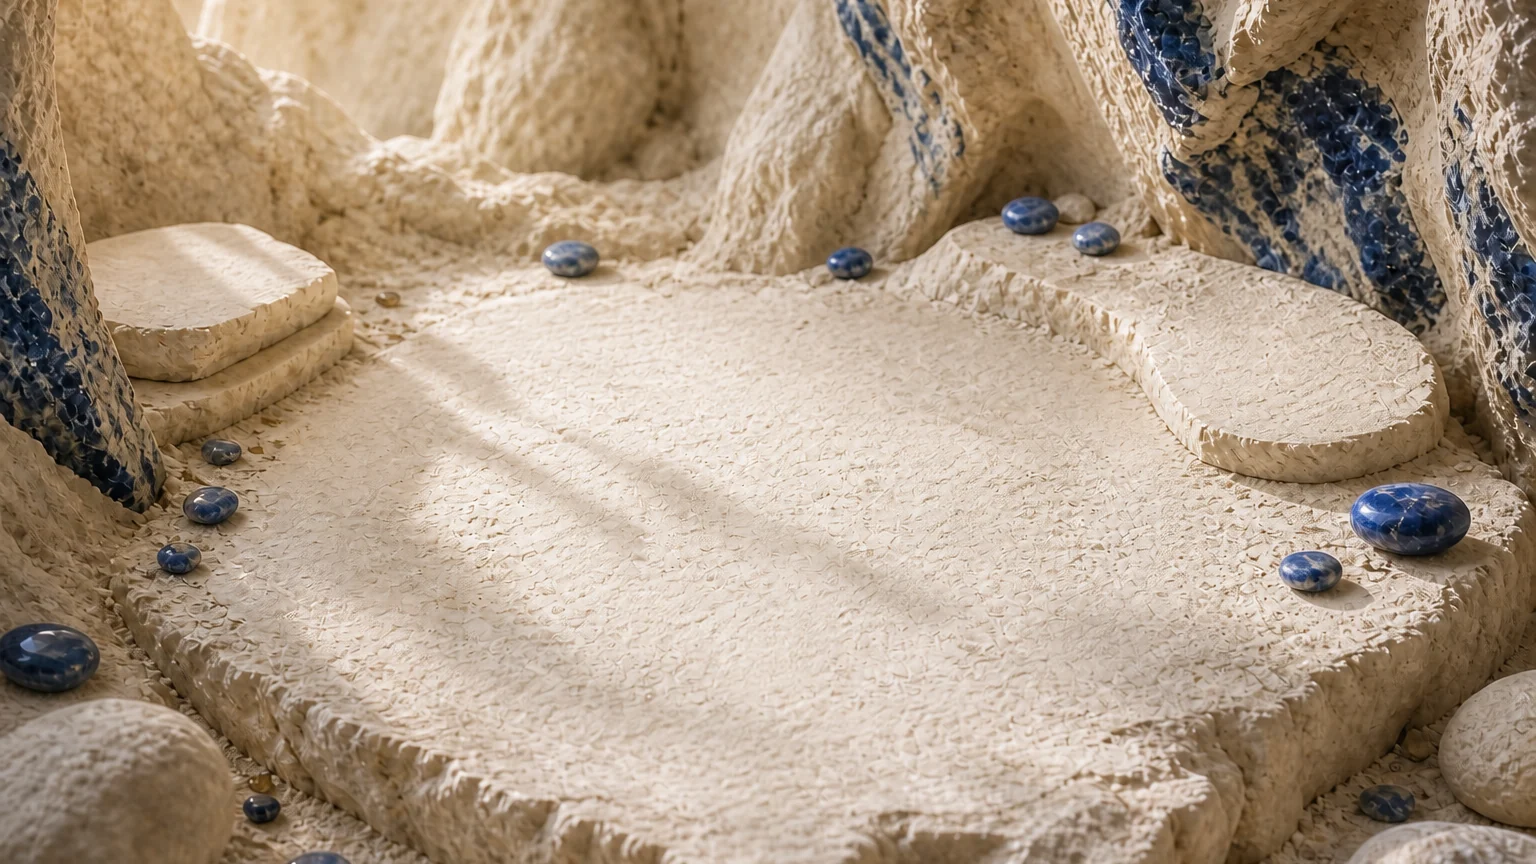
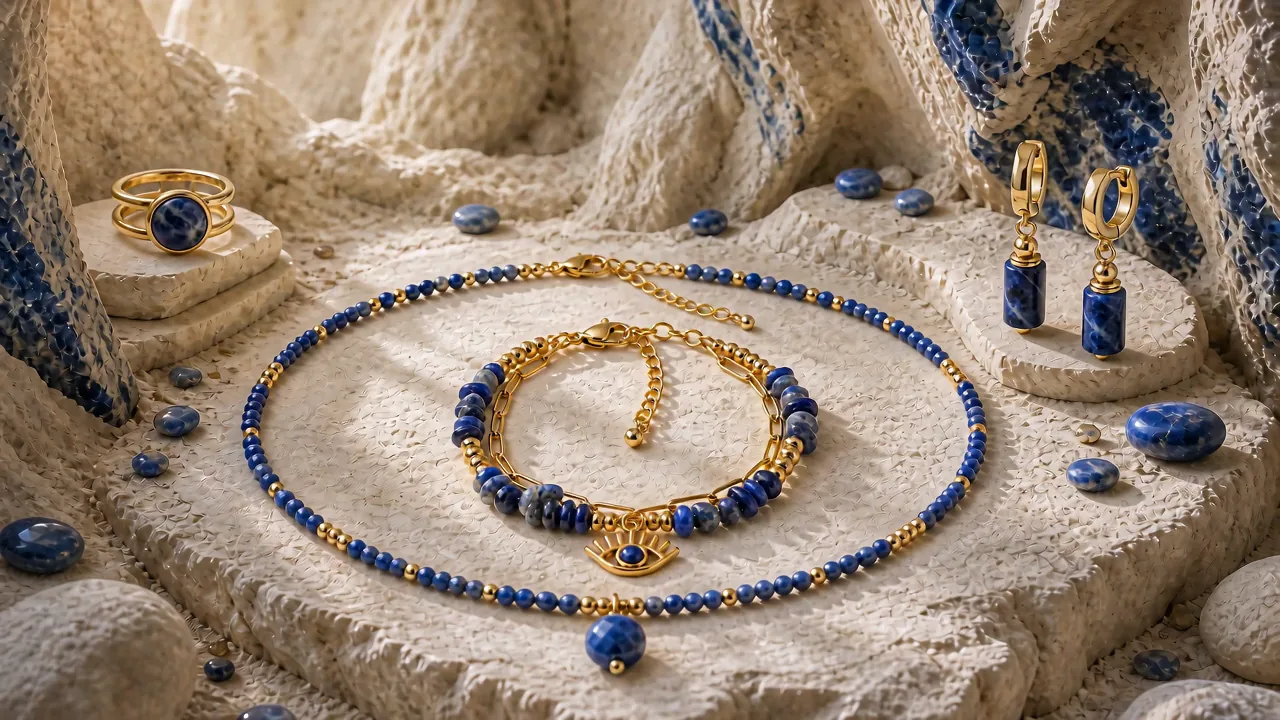
fix: harden home video fallback

diff --git a/assets/milaura-home-seasonal-media.js b/assets/milaura-home-seasonal-media.js
@@ -19,6 +19,8 @@
       let inView = false;
       let hasStarted = false;
       let hasCompleted = false;
+      let hasVisiblePlayback = false;
+      let switchingVariant = false;
 
       const currentVariant = () => (mobileViewport.matches ? 'Mobile' : 'Desktop');
       const currentMediaUrl = (kind) => {
@@ -30,7 +32,7 @@
         replay.hidden = !visible;
         replay.style.display = visible ? 'inline-flex' : 'none';
         if (!visible) {
-          media.dataset.mediaState = hasStarted ? 'playing' : 'idle';
+          media.dataset.mediaState = hasVisiblePlayback ? 'playing' : 'fallback';
           return;
         }
 
@@ -69,8 +71,10 @@
         video.defaultMuted = true;
         hasStarted = true;
         setReplayVisibility(false);
+        if (!hasVisiblePlayback) media.dataset.mediaState = 'loading';
         const playbackStartTime = video.currentTime;
         video.play().catch(() => {
+          hasVisiblePlayback = false;
           setReplayVisibility(true, 'blocked');
         });
         window.setTimeout(() => {
@@ -79,6 +83,7 @@
             !hasCompleted &&
             video.currentTime <= playbackStartTime + 0.05
           ) {
+            hasVisiblePlayback = false;
             setReplayVisibility(true, 'blocked');
           }
         }, 1200);
@@ -92,16 +97,21 @@
 
         if (!sourceLoaded || !nextSource || nextSource === activeSource) return;
 
+        switchingVariant = true;
         video.pause();
         activeSource = nextSource;
         video.src = nextSource;
+        hasVisiblePlayback = false;
+        setReplayVisibility(false);
         video.load();
 
         video.addEventListener(
           'loadedmetadata',
           () => {
+            switchingVariant = false;
             if (hasCompleted) {
               video.currentTime = Math.max(0, video.duration - 0.04);
+              hasVisiblePlayback = true;
               setReplayVisibility(true);
               return;
             }
@@ -131,25 +141,27 @@
         if (!loadSource()) return;
         hasCompleted = false;
         hasStarted = true;
+        hasVisiblePlayback = false;
         video.currentTime = 0;
         playCurrent(true);
       });
 
       video.addEventListener('play', () => {
         hasStarted = true;
-        setReplayVisibility(false);
       });
 
       video.addEventListener('timeupdate', () => {
-        if (!video.paused && !hasCompleted && media.dataset.mediaState === 'blocked') {
+        if (!video.paused && !hasCompleted && video.currentTime > 0.05) {
+          hasVisiblePlayback = true;
           setReplayVisibility(false);
         }
       });
 
       video.addEventListener('pause', () => {
-        if (!inView || !hasStarted || hasCompleted) return;
+        if (!inView || !hasStarted || hasCompleted || switchingVariant) return;
         window.setTimeout(() => {
           if (inView && video.paused && !video.ended && !hasCompleted) {
+            hasVisiblePlayback = false;
             setReplayVisibility(true, 'blocked');
           }
         }, 120);
@@ -157,18 +169,32 @@
 
       video.addEventListener('ended', () => {
         hasCompleted = true;
+        hasVisiblePlayback = true;
         setReplayVisibility(true, 'replay');
       });
 
       video.addEventListener('error', () => {
-        if (!hasCompleted) setReplayVisibility(true, 'blocked');
+        if (!hasCompleted) {
+          hasVisiblePlayback = false;
+          setReplayVisibility(true, 'blocked');
+        }
+      });
+
+      video.addEventListener('stalled', () => {
+        if (inView && !hasCompleted) {
+          hasVisiblePlayback = false;
+          setReplayVisibility(true, 'blocked');
+        }
       });
 
       mobileViewport.addEventListener('change', updateVariant);
       reducedMotion.addEventListener('change', () => {
         if (reducedMotion.matches) {
           video.pause();
-          if (!hasCompleted) setReplayVisibility(true, 'blocked');
+          if (!hasCompleted) {
+            hasVisiblePlayback = false;
+            setReplayVisibility(true, 'blocked');
+          }
           return;
         }
         if (inView && !hasCompleted) playCurrent();
